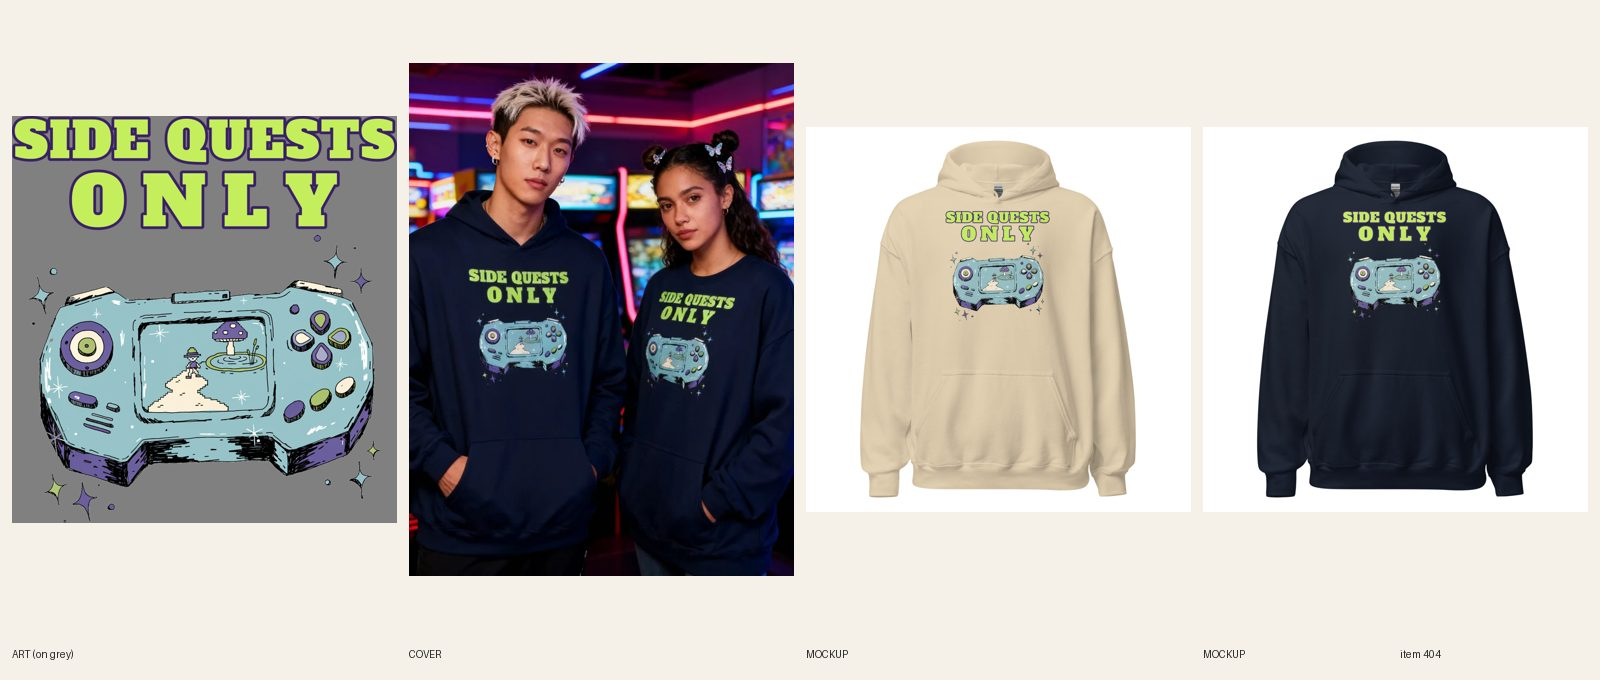
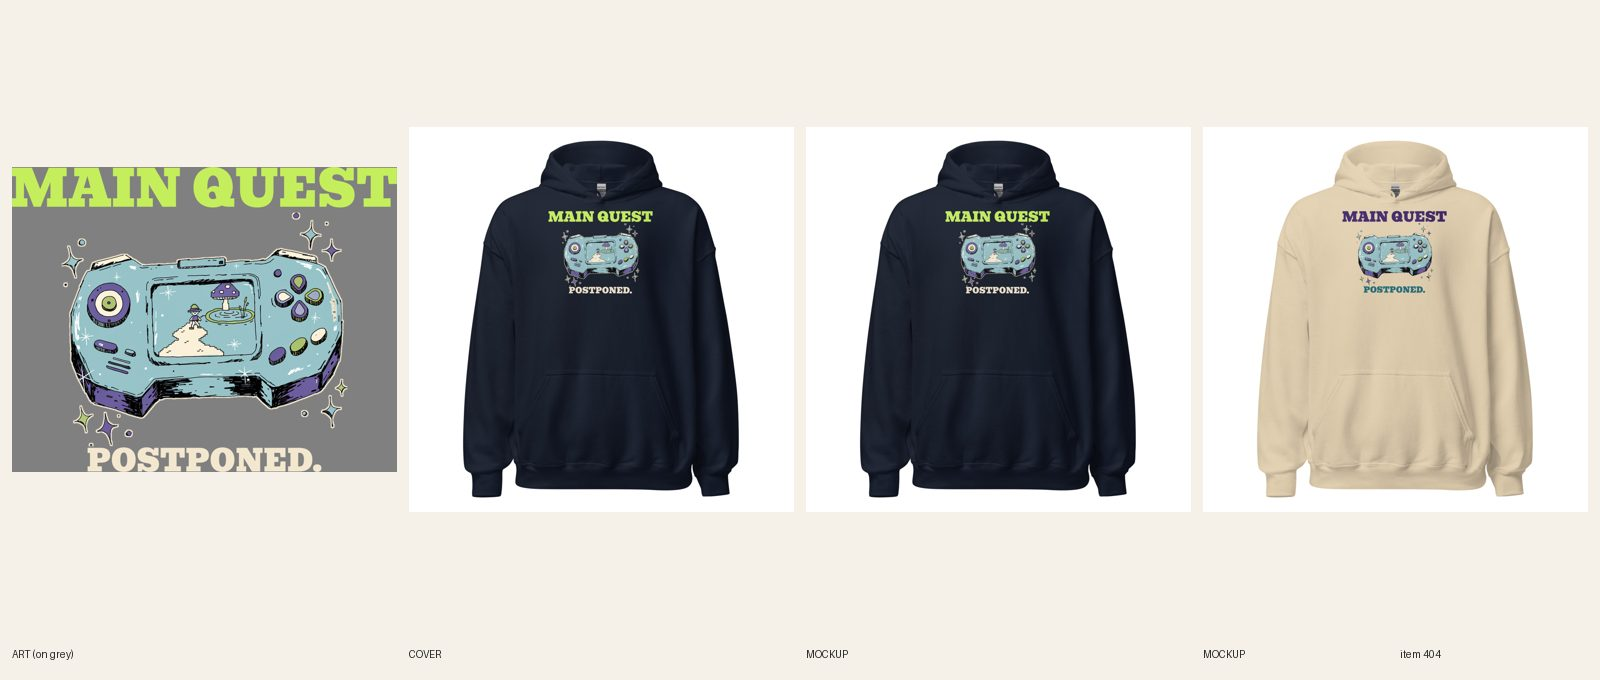
[B] review 404 Main Quest Postponed video game hoodie (line + type redo)

diff --git a/docs/pipeline/404-y2k-hoodie-side-quests-only.md b/docs/pipeline/404-y2k-hoodie-side-quests-only.md
@@ -1,4 +1,4 @@
-status: REDO
+status: REVIEW
 lane: B
 type: new
 id: 404
@@ -30,3 +30,4 @@ kd: 28
 - 2026-10-17 21:50 UTC builder [B]: synced 12/12. REVIEW. Sheet docs/review/404.jpg.
 - 2026-10-17 20:16 UTC director: APPROVED, LIVE. ACTIVE + published Online Store, Headless, Google; cohesion-audit --handle PASS.
 - 2026-10-18 17:22 UTC director: QUALITY RESET grade C (new line + type), REDO. The product stays ACTIVE (same handle, URL, title keyword). 1. Line (R3.12, quality-reset 'Lines'): "SIDE QUESTS / ONLY": Stock gamer phrase, no joke for a stranger. Write 5 candidates, keep the one a stranger laughs at in 3 seconds without backstory; kill lines that only describe the picture; if none of the 5 is funny, PARK it. 2. Quality reset type bar (docs/backlog/quality-reset.md, 'The new bar'): headline at least 90% of the art width, heavy, colors pulled from the art; second line at least 45% of the headline's height, never a thin script on a dark or mid garment; use the lettering as a shape (arch, stacked lockup, words breaking into the art), not a plain bar above and a script line below; no font used on more than 1 in 6 of the last 30 designs. 3. Keep the art if it carries the new line, else one new illustration (R4/R5). New print means a new cover per R6.10, copy line one rewritten for the new joke (R8.3), and a fresh review sheet (R7.7). While quality-reset.md says PAUSED, only lane A builds, and only the samples step 2 names.
+- 2026-10-20 04:40 UTC builder [B]: REDO 404 (C grade, line + type) done in place (stays ACTIVE, handle unchanged). 5 candidates: "MAIN QUEST / POSTPONED."; "Skipped the Tutorial"; "AFK Indefinitely"; "Still Fishing, Ignoring the Plot"; "Be Right Back (I Won't)". Kept MAIN QUEST / POSTPONED. (the adventurer on the screen is literally wandering off; outsider gets it). Same art, no fal ($0). Bevan at full print width (headline 134% of art width), second line 61% of headline height. Navy file 1090142703 (lime + cream, cream halo); Sand light file 1090142721 (headline fill grape #3b2166, second line teal; light file logged for Sand). FW 1500 TOP 0 (7.9 in tall, clear of the pouch). 12/12 synced on the right file per color, back logo kept. Fronts + back replaced in place, alts, SEO, copy, FAQ rewritten. Phone-size read OK on both. Cover: handle added to retired-covers.json. audit --handle PASS 0 warn. Sheet docs/review/404.jpg.

diff --git a/docs/intake-log.md b/docs/intake-log.md
@@ -1,6 +1,7 @@
 2026-10-20 03:47 UTC — [H] Helper run: audit 607 products, 0 errors, 30 warnings (no scripted ERRORs to fix). Category check: 0 products without a Shopify category. Site check: 3 newest LIVE pages (#618, #578, #548) all 200. Stuck-work check: nothing BUILDING, all locks under 2h. Telegram: no new messages. Announcement bar already on holiday line. Daily summary not due (before 12:00 UTC). Lock released.
 RUNNING lane B since 2026-10-20 03:28 UTC
 2026-10-20 03:49 UTC — [E] Builder run: redid #395 Women's Teacher crewneck (line + type: NO, WE CAN'T GO OUTSIDE., new bandaged-apple art, Navy + Sand files, 12/12 synced, copy updated, plain product shot). REVIEW. fal $0.04.
+2026-10-20 03:56 UTC — [B] Builder run: redid #404 Unisex Y2K video game hoodie (line + type: MAIN QUEST / POSTPONED., same art, Bevan, Navy + Sand light files, 12/12 synced). REVIEW. fal $0.
 2026-10-20 03:37 UTC — [A] Builder run: redid #246 Unisex Thanksgiving Totally a Pilgrim hoodie (type+line: NOT A TURKEY. / JUST A PILGRIM., same turkey art, Bowlby One full width, FW 1500 TOP 0, Sand file 1090137152 / Navy file 1090137159, 12/12 relinked, 2 fronts replaced in place, copy updated, plain product shot). REVIEW. fal $0.
 2026-10-20 03:41 UTC — [B] Builder run: redid #362 Women's Baseball hoodie (line + type: MISSED THE PLAY. / SEEDS WERE GOOD., same art, Bowlby One, Navy + Sand light files, 12/12 synced). REVIEW. fal $0.
 2026-10-20 05:26 UTC — [E] Builder run: redid #388 Women's Christmas crewneck (line + type: SORRY, I'M BOOKED TILL JANUARY., new party-calendar art, Navy + Sand files, 12/12 synced, copy updated, plain product shot). REVIEW. fal $0.08.
